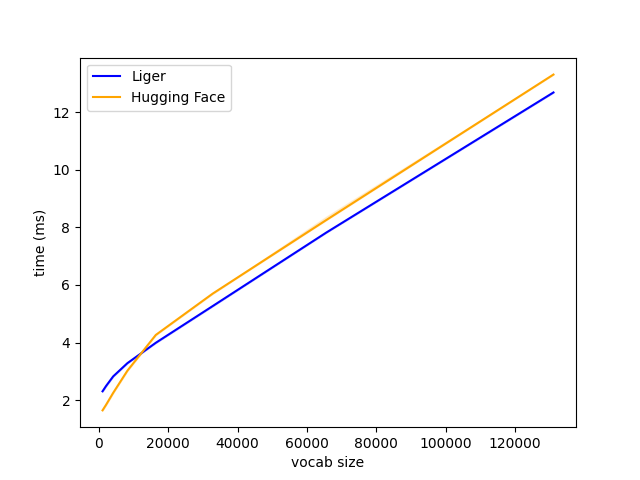
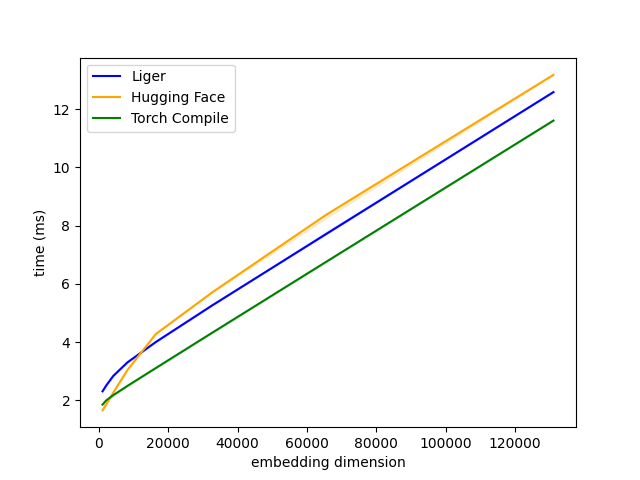
profile against torch compile + update graphs

diff --git a/benchmark/benchmark_embedding.py b/benchmark/benchmark_embedding.py
@@ -8,21 +8,24 @@ from utils import _test_memory, get_current_file_directory
 from liger_kernel.transformers.embedding import LigerEmbedding
 
 
+# NOTE: For torch compile, we will just use default inductor settings. No further customization
 @triton.testing.perf_report(
     [
         triton.testing.Benchmark(
             x_names=["V"],
             x_vals=[2**i for i in range(10, 18)],
-            xlabel="vocab size",
+            xlabel="embedding dimension",
             line_arg="provider",
-            line_vals=["liger", "huggingface"],
+            line_vals=["liger", "huggingface", "torch_compile"],
             line_names=[
                 "Liger",
                 "Hugging Face",
+                "Torch Compile",
             ],
             styles=[
                 ("blue", "solid"),
                 ("orange", "solid"),
+                ("green", "solid"),
             ],
             ylabel="time (ms)",
             plot_name="embedding-fwd-speed-benchmark-bert",
@@ -37,16 +40,18 @@ from liger_kernel.transformers.embedding import LigerEmbedding
         triton.testing.Benchmark(
             x_names=["V"],
             x_vals=[2**i for i in range(10, 18)],
-            xlabel="vocab size",
+            xlabel="embedding dimension",
             line_arg="provider",
-            line_vals=["liger", "huggingface"],
+            line_vals=["liger", "huggingface", "torch_compile"],
             line_names=[
                 "Liger",
                 "Hugging Face",
+                "Torch Compile [Inductor Backend]",
             ],
             styles=[
                 ("blue", "solid"),
                 ("orange", "solid"),
+                ("green", "solid"),
             ],
             ylabel="time (ms)",
             plot_name="embedding-full-speed-benchmark-bert",
@@ -61,16 +66,18 @@ from liger_kernel.transformers.embedding import LigerEmbedding
         triton.testing.Benchmark(
             x_names=["V"],
             x_vals=[2**i for i in range(10, 18)],
-            xlabel="vocab size",
+            xlabel="embedding dimension",
             line_arg="provider",
-            line_vals=["liger", "huggingface"],
+            line_vals=["liger", "huggingface", "torch_compile"],
             line_names=[
                 "Liger",
                 "Hugging Face",
+                "Torch Compile",
             ],
             styles=[
                 ("blue", "solid"),
                 ("orange", "solid"),
+                ("green", "solid"),
             ],
             ylabel="time (ms)",
             plot_name="embedding-fwd-speed-benchmark-llama3",
@@ -85,16 +92,18 @@ from liger_kernel.transformers.embedding import LigerEmbedding
         triton.testing.Benchmark(
             x_names=["V"],
             x_vals=[2**i for i in range(10, 18)],
-            xlabel="vocab size",
+            xlabel="embedding dimension",
             line_arg="provider",
-            line_vals=["liger", "huggingface"],
+            line_vals=["liger", "huggingface", "torch_compile"],
             line_names=[
                 "Liger",
                 "Hugging Face",
+                "Torch Compile",
             ],
             styles=[
                 ("blue", "solid"),
                 ("orange", "solid"),
+                ("green", "solid"),
             ],
             ylabel="time (ms)",
             plot_name="embedding-full-speed-benchmark-llama3",
@@ -111,12 +120,15 @@ from liger_kernel.transformers.embedding import LigerEmbedding
 def bench_speed_embedding(B, T, V, D, provider, mode, dtype, device="cuda"):
     torch_emb = Embedding(V, D).to(device).to(dtype)
     liger_emb = LigerEmbedding(V, D).to(device).to(dtype)
+    torch_compile_emb = torch.compile(torch_emb)
 
     input_ids = torch.randint(0, V, (B, T), device=device)
 
     def fwd():
         if provider == "liger":
             return liger_emb(input_ids)
+        elif provider == "torch_compile":
+            return torch_compile_emb(input_ids)
         else:
             return torch_emb(input_ids)
 
@@ -138,16 +150,18 @@ def bench_speed_embedding(B, T, V, D, provider, mode, dtype, device="cuda"):
         triton.testing.Benchmark(
             x_names=["V"],
             x_vals=[2**i for i in range(10, 18)],
-            xlabel="vocab size",
+            xlabel="embedding dimension",
             line_arg="provider",
-            line_vals=["liger", "huggingface"],
+            line_vals=["liger", "huggingface", "torch_compile"],
             line_names=[
                 "Liger",
                 "Hugging Face",
+                "Torch Compile",
             ],
             styles=[
                 ("blue", "solid"),
                 ("orange", "solid"),
+                ("green", "solid"),
             ],
             ylabel="GPU memory usage (MB)",
             plot_name="embedding-memory-benchmark-bert",
@@ -155,17 +169,19 @@ def bench_speed_embedding(B, T, V, D, provider, mode, dtype, device="cuda"):
         ),
         triton.testing.Benchmark(
             x_names=["V"],
-            x_vals=[2**i for i in range(10, 18)],
-            xlabel="vocab size",
+            x_vals=[2**i for i in range(10, 17)],
+            xlabel="embedding dimension",
             line_arg="provider",
-            line_vals=["liger", "huggingface"],
+            line_vals=["liger", "huggingface", "torch_compile"],
             line_names=[
                 "Liger",
                 "Hugging Face",
+                "Torch Compile",
             ],
             styles=[
                 ("blue", "solid"),
                 ("orange", "solid"),
+                ("green", "solid"),
             ],
             ylabel="GPU memory usage (MB)",
             plot_name="embedding-memory-benchmark-llama3",
@@ -176,12 +192,15 @@ def bench_speed_embedding(B, T, V, D, provider, mode, dtype, device="cuda"):
 def bench_memory_embedding(B, T, V, D, provider, mode, dtype, device="cuda"):
     torch_emb = Embedding(V, D).to(device).to(dtype)
     liger_emb = LigerEmbedding(V, D).to(device).to(dtype)
+    torch_compile_emb = torch.compile(torch_emb)
 
     input_ids = torch.randint(0, V, (B, T), device=device)
 
     def fwd():
         if provider == "liger":
             return liger_emb(input_ids)
+        elif provider == "torch_compile":
+            return torch_compile_emb(input_ids)
         else:
             return torch_emb(input_ids)
 
